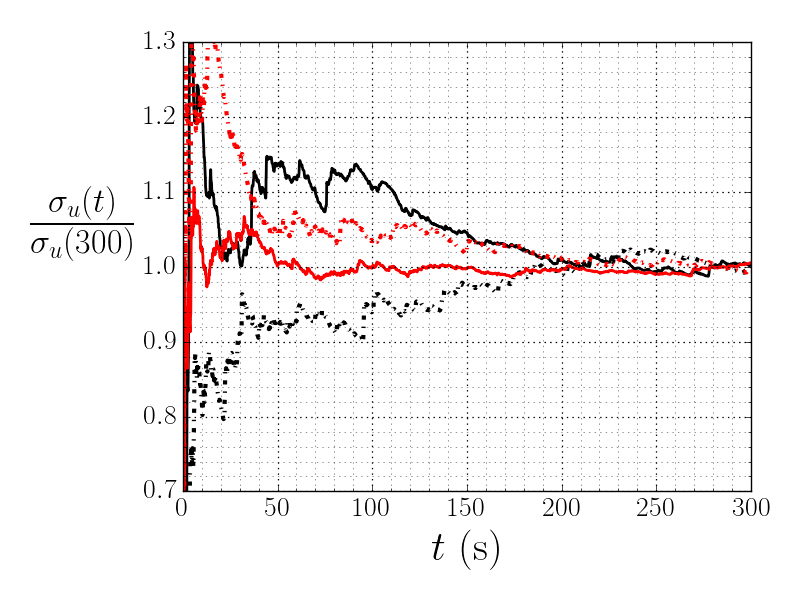
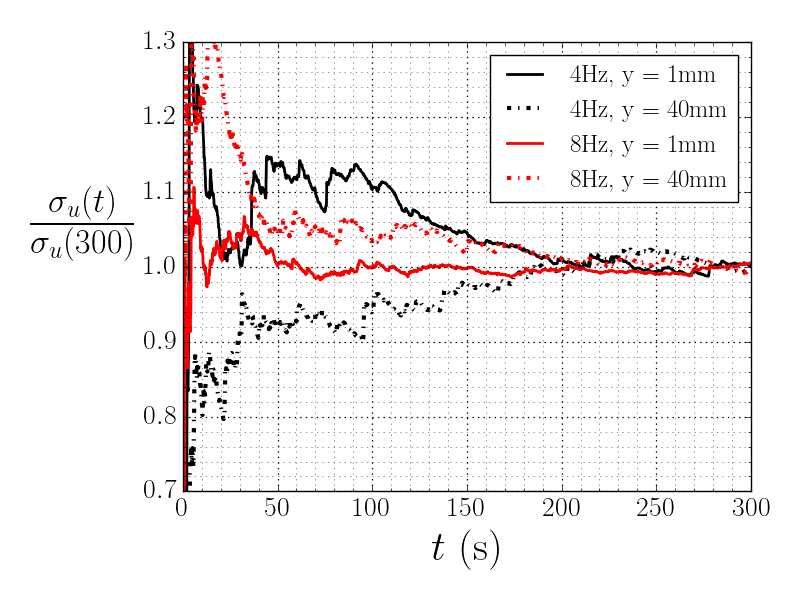
Altered plotting scripts

Changed region(s): [[0.5938, 0.09, 0.9375, 0.36]]

diff --git a/profiles/Code/processingScript.py b/profiles/Code/processingScript.py
@@ -118,67 +118,115 @@ if writeData == True:
 #	print(data)
 		data.to_pickle(writePath[j])
 
-data = (pd.read_pickle(dataPath[0]),pd.read_pickle(dataPath[2]))
+data = (pd.read_pickle(dataPath[0]),pd.read_pickle(dataPath[1]),pd.read_pickle(dataPath[2]),pd.read_pickle(dataPath[3]))
+data1=data[0];	data2=data[1];	data3=data[2];	data4=data[3];
 pumpSpeed = ['4hz','8hz']
 
 if plotDimensionedData == True:
-	for d in range(len(data)):
-		print(pumpSpeed[d])
-		mpl.semilogx(data[d].z,data[d].UxMean,linestyle = 'None', marker = '.')
-		mpl.errorbar(data[d].z,data[d].UxMean,yerr=data[d].error_UxMean, linestyle = "None")
+	for i in range(len(pumpSpeed)):
+		if i == 0:
+			d1 = data1;	d2 = data2;
+		elif i == 1:
+			d1 = data3; d2 = data4;
+#
+##	Plot mean U
 		mpl.rc('text', usetex=True)
 		mpl.rc('font', family='serif')
-		mpl.xticks(fontsize=25)
-		mpl.yticks(fontsize=25)
-		mpl.xlabel(r'$\mathbf{z}$',fontsize=30)
-		mpl.ylabel(r'$\mathbf{U}$',fontsize=30)
-		write = '../Data/processedData/figures/meanU_'+str(pumpSpeed[d])+'.png'
-		mpl.savefig(write)
-	#	mpl.show()
-		mpl.close()
-		#mpl.semilogx(data.z,data.UyMean,linestyle = 'None', marker = '.')
-		#mpl.errorbar(data.z,data.UyMean,yerr=data.error_UyMean, linestyle = "None")
-		#mpl.show()
-		#mpl.close()
-		mpl.plot(data[d].z,data[d].uxRMS,linestyle = 'None', marker = '.')
-		mpl.errorbar(data[d].z,data[d].uxRMS,yerr=data[d].error_uxRMS, linestyle = "None")
-		mpl.rc('text', usetex=True)
-		mpl.rc('font', family='serif')
-		mpl.xticks(fontsize=25)
-		mpl.yticks(fontsize=25)
-		mpl.xlabel(r'$\mathbf{z}$',fontsize=30)
-		mpl.ylabel(r'$\mathbf{RMS(U)}$',fontsize=30)
-		write = '../Data/processedData/figures/rmsU_'+str(pumpSpeed[d])+'.png'
-		mpl.savefig(write)
-	#	mpl.show()
-		mpl.close()
-		mpl.plot(data[d].z,data[d].uyRMS,linestyle = 'None', marker = '.')
-		mpl.errorbar(data[d].z,data[d].uyRMS,yerr=data[d].error_uyRMS, linestyle = "None")
-		mpl.rc('text', usetex=True)
-		mpl.rc('font', family='serif')
-		mpl.xticks(fontsize=25)
-		mpl.yticks(fontsize=25)
-		mpl.xlabel(r'$\mathbf{z}$',fontsize=30)
-		mpl.ylabel(r'$\mathbf{RMS(W)}$',fontsize=30)
-		write = '../Data/processedData/figures/rmsW_'+str(pumpSpeed[d])+'.png'
-		mpl.savefig(write)
-	#	mpl.show()
-		mpl.close()
-		mpl.plot(data[d].z,data[d].uv,linestyle = 'None', marker = '.')
-		mpl.errorbar(data[d].z,data[d].uv,yerr=data[d].error_uv, linestyle = "None")
-		mpl.rc('text', usetex=True)
-		mpl.rc('font', family='serif')
-		mpl.xticks(fontsize=25)
-		mpl.yticks(fontsize=25)
-		mpl.xlabel(r'$\mathbf{z}$',fontsize=30)
-		mpl.ylabel(r'$\mathbf{uv}$',fontsize=30)
-		write = '../Data/processedData/figures/uv_'+str(pumpSpeed[d])+'.png'
-		mpl.savefig(write)
-	#	mpl.show()
-		mpl.close()
+		plot1, = mpl.semilogx(d1.z,d1.UxMean,linestyle = 'None',color = 'k', marker = '.',label = r'$x=300$ (mm)')
+		mpl.errorbar(d1.z,d1.UxMean,yerr=d1.error_UxMean, linestyle = "None",color = 'k')
 	#
+		plot2, = mpl.semilogx(d2.z,d2.UxMean,linestyle = 'None',color = 'r', marker = 'x',label = r'$x=400$ (mm)')
+		mpl.errorbar(d2.z,d2.UxMean,yerr=d2.error_UxMean, linestyle = "None",color = 'k')
+		mpl.xticks(fontsize=25)
+		mpl.yticks(fontsize=25)
+		mpl.xlabel(r'$z$ (mm)',fontsize=30)
+		mpl.ylabel(r'$\mu_u$ (m/s)',fontsize=30)
+		mpl.legend(handles=[plot1,plot2],loc=2)
+		write = '../Data/processedData/figures/meanU_'+str(pumpSpeed[i])+'.png'
+		mpl.savefig(write)
+#		mpl.show()
+		mpl.close()
+##	Plot std U
+		mpl.rc('text', usetex=True)
+		mpl.rc('font', family='serif')
+		plot1, = mpl.semilogx(d1.z,d1.uxRMS,linestyle = 'None',color = 'r', marker = '.',label = r'$\sigma_u$ at $x=300$ (mm)')
+		mpl.errorbar(d1.z,d1.uxRMS,yerr=d1.error_uxRMS, linestyle = "None",color = 'k')
+		plot2, = mpl.semilogx(d1.z,d1.uyRMS,linestyle = 'None',color = 'g', marker = '.',label = r'$\sigma_v$ at $x=300$ (mm)')
+		mpl.errorbar(d1.z,d1.uyRMS,yerr=d1.error_uyRMS, linestyle = "None",color = 'k')
 	#
-###############	TEMP LOCATION OF LAW OF THE WALL FUNCTION - MOVE THIS LATER ################
+		plot3, = mpl.semilogx(d2.z,d2.uxRMS,linestyle = 'None',color = 'b', marker = 'x',label = r'$\sigma_v$ at $x=400$ (mm)')
+		mpl.errorbar(d2.z,d2.uxRMS,yerr=d2.error_uxRMS, linestyle = "None",color = 'k')
+		plot4, = mpl.semilogx(d2.z,d2.uyRMS,linestyle = 'None',color = 'k', marker = 'x',label = r'$\sigma_u$ at $x=400$ (mm)')
+		mpl.errorbar(d2.z,d2.uyRMS,yerr=d2.error_uyRMS, linestyle = "None",color = 'k')
+#
+		mpl.xticks(fontsize=25)
+		mpl.yticks(fontsize=25)
+		mpl.xlabel(r'$z$ (mm)',fontsize=30)
+		mpl.ylabel(r'$\sigma_u,\sigma_v$ (m/s)',fontsize=30)
+		mpl.legend(handles=[plot1,plot2,plot3,plot4],loc=1)
+		write = '../Data/processedData/figures/std_'+str(pumpSpeed[i])+'.png'
+		mpl.savefig(write)
+#		mpl.show()
+		mpl.close()
+##	Plot cov
+		mpl.rc('text', usetex=True)
+		mpl.rc('font', family='serif')
+		plot1, = mpl.semilogx(d1.z,d1.uv,linestyle = 'None',color = 'k', marker = '.',label = r'$x=300$ (mm)')
+		mpl.errorbar(d1.z,d1.uv,yerr=d1.error_uv, linestyle = "None",color = 'k')
+	#
+		plot2, = mpl.semilogx(d2.z,d2.uv,linestyle = 'None',color = 'r', marker = 'x',label = r'$x=400$ (mm)')
+		mpl.errorbar(d2.z,d2.uv,yerr=d2.error_uv, linestyle = "None",color = 'k')
+		mpl.xticks(fontsize=25)
+		mpl.yticks(fontsize=25)
+		mpl.xlabel(r'$z$ (mm)',fontsize=30)
+		mpl.ylabel(r'$\gamma_{u,v}$ (m\textsuperscript{2}/s\textsuperscript{2})',fontsize=30)
+		mpl.legend(handles=[plot1,plot2],loc=2)
+		write = '../Data/processedData/figures/cov_'+str(pumpSpeed[i])+'.png'
+		mpl.savefig(write)
+#		mpl.show()
+		mpl.close()
+
+
+
+#		mpl.plot(data[d].z,data[d].uxRMS,linestyle = 'None', marker = '.')
+#		mpl.errorbar(data[d].z,data[d].uxRMS,yerr=data[d].error_uxRMS, linestyle = "None")
+#		mpl.rc('text', usetex=True)
+#		mpl.rc('font', family='serif')
+#		mpl.xticks(fontsize=25)
+#		mpl.yticks(fontsize=25)
+#		mpl.xlabel(r'$\mathbf{z}$',fontsize=30)
+#		mpl.ylabel(r'$\mathbf{RMS(U)}$',fontsize=30)
+##		write = '../Data/processedData/figures/rmsU_'+str(pumpSpeed[d])+'.png'
+#		mpl.savefig(write)
+#	#	mpl.show()
+#		mpl.close()
+#		mpl.plot(data[d].z,data[d].uyRMS,linestyle = 'None', marker = '.')
+#		mpl.errorbar(data[d].z,data[d].uyRMS,yerr=data[d].error_uyRMS, linestyle = "None")
+#		mpl.rc('text', usetex=True)
+#		mpl.rc('font', family='serif')
+#		mpl.xticks(fontsize=25)
+#		mpl.yticks(fontsize=25)
+#		mpl.xlabel(r'$\mathbf{z}$',fontsize=30)
+#		mpl.ylabel(r'$\mathbf{RMS(W)}$',fontsize=30)
+#		write = '../Data/processedData/figures/rmsW_'+str(pumpSpeed[d])+'.png'
+#		mpl.savefig(write)
+#	#	mpl.show()
+#		mpl.close()
+#		mpl.plot(data[d].z,data[d].uv,linestyle = 'None', marker = '.')
+#		mpl.errorbar(data[d].z,data[d].uv,yerr=data[d].error_uv, linestyle = "None")
+#		mpl.rc('text', usetex=True)
+#		mpl.rc('font', family='serif')
+#		mpl.xticks(fontsize=25)
+#		mpl.yticks(fontsize=25)
+#		mpl.xlabel(r'$\mathbf{z}$',fontsize=30)
+#		mpl.ylabel(r'$\mathbf{uv}$',fontsize=30)
+#		write = '../Data/processedData/figures/uv_'+str(pumpSpeed[d])+'.png'
+#		mpl.savefig(write)
+#	#	mpl.show()
+#		mpl.close()
+#	#
+#	#
+################	TEMP LOCATION OF LAW OF THE WALL FUNCTION - MOVE THIS LATER ################
 ####
 ####	1. 	define new variables
 ##	Initialise variables using the full data set and iterate to find log-law region by removing extremes of z
@@ -192,66 +240,67 @@ def linearReg(X,Y):
 	beta = np.sum( (X-np.mean(X)) * (Y-np.mean(Y)) ) / np.sum( (Y - np.mean(Y))**2 ) 
 	alpha = np.mean(X) - beta*np.mean(Y)
 	return [alpha,beta]
+testing = False
+if testing == True:
+	data4 = pd.read_pickle(dataPath[0])
+	data8 = pd.read_pickle(dataPath[2])
 
-data4 = pd.read_pickle(dataPath[0])
-data8 = pd.read_pickle(dataPath[2])
-
-Ulab4 = data4.UxMean.as_matrix()
-Ylab4 = data4.z.as_matrix()/1000
-Ulab8 = data8.UxMean.as_matrix()
-Ylab8 = data8.z.as_matrix()/1000
-
-nu = 1.1*10**(-6)
-kappa = 0.41
-Cplus = 5.2
-[Utau4,Delta4] = FDP(Ulab4,Ylab4)
-[Utau8,Delta8] = FDP(Ulab8,Ylab8)
-
-Yplus4 = (Ylab4-Delta4)*Utau4/nu
-Uplus4 = Ulab4/Utau4
-Yplus8 = (Ylab8-Delta8)*Utau8/nu
-Uplus8 = Ulab8/Utau8
-
-mpl.semilogx(Yplus4,Uplus4,linestyle=' ',marker = 'o')
-mpl.errorbar(Yplus4,Uplus4,yerr=data4.error_UxMean/Utau4, linestyle = "None",ecolor='k', capthick=2)
-#
-mpl.plot(Yplus4,Yplus4)
-mpl.plot(Yplus4,np.log(Yplus4)/kappa+Cplus)
-mpl.axis([0,np.max(Yplus4),0,np.max(Uplus4)+0.05*np.max(Uplus4)])
-mpl.rc('text', usetex=True)
-mpl.rc('font', family='serif')
-mpl.xticks(fontsize=25)
-mpl.yticks(fontsize=25)
-mpl.xlabel(r'$\mathbf{z^+}$',fontsize=30)
-mpl.ylabel(r'$\mathbf{U^+}$',fontsize=30)
-mpl.savefig('../Data/processedData/figures/Uplus_4hz.png')
-#mpl.show()
-mpl.close()
-
-mpl.semilogx(Yplus8,Uplus8,linestyle=' ',marker = '*')
-mpl.errorbar(Yplus8,Uplus8,yerr=data8.error_UxMean/Utau8, linestyle = "None",ecolor='k', capthick=2)
-#
-mpl.plot(Yplus8,Yplus8)
-mpl.plot(Yplus8,np.log(Yplus8)/kappa+Cplus)
-mpl.axis([0,np.max(Yplus8),0,np.max(Uplus8)+0.05*np.max(Uplus8)])
-mpl.rc('text', usetex=True)
-mpl.rc('font', family='serif')
-mpl.xticks(fontsize=25)
-mpl.yticks(fontsize=25)
-mpl.xlabel(r'$\mathbf{z^+}$',fontsize=30)
-mpl.ylabel(r'$\mathbf{U^+}$',fontsize=30)
-mpl.savefig('../Data/processedData/figures/Uplus_8hz.png')
-#mpl.show()
-mpl.close()
-
-
+	Ulab4 = data4.UxMean.as_matrix()
+	Ylab4 = data4.z.as_matrix()/1000
+	Ulab8 = data8.UxMean.as_matrix()
+	Ylab8 = data8.z.as_matrix()/1000
+	
+	nu = 1.1*10**(-6)
+	kappa = 0.41
+	Cplus = 5.2
+	[Utau4,Delta4] = FDP(Ulab4,Ylab4)
+	[Utau8,Delta8] = FDP(Ulab8,Ylab8)
+	
+	Yplus4 = (Ylab4-Delta4)*Utau4/nu
+	Uplus4 = Ulab4/Utau4
+	Yplus8 = (Ylab8-Delta8)*Utau8/nu
+	Uplus8 = Ulab8/Utau8
+	
+	mpl.semilogx(Yplus4,Uplus4,linestyle=' ',marker = 'o')
+	mpl.errorbar(Yplus4,Uplus4,yerr=data4.error_UxMean/Utau4, linestyle = "None",ecolor='k', capthick=2)
+	#
+	mpl.plot(Yplus4,Yplus4)
+	mpl.plot(Yplus4,np.log(Yplus4)/kappa+Cplus)
+	mpl.axis([0,np.max(Yplus4),0,np.max(Uplus4)+0.05*np.max(Uplus4)])
+	mpl.rc('text', usetex=True)
+	mpl.rc('font', family='serif')
+	mpl.xticks(fontsize=25)
+	mpl.yticks(fontsize=25)
+	mpl.xlabel(r'$\mathbf{z^+}$',fontsize=30)
+	mpl.ylabel(r'$\mathbf{U^+}$',fontsize=30)
+	mpl.savefig('../Data/processedData/figures/Uplus_4hz.png')
+	#mpl.show()
+	mpl.close()
+	
+	mpl.semilogx(Yplus8,Uplus8,linestyle=' ',marker = '*')
+	mpl.errorbar(Yplus8,Uplus8,yerr=data8.error_UxMean/Utau8, linestyle = "None",ecolor='k', capthick=2)
+	#
+	mpl.plot(Yplus8,Yplus8)
+	mpl.plot(Yplus8,np.log(Yplus8)/kappa+Cplus)
+	mpl.axis([0,np.max(Yplus8),0,np.max(Uplus8)+0.05*np.max(Uplus8)])
+	mpl.rc('text', usetex=True)
+	mpl.rc('font', family='serif')
+	mpl.xticks(fontsize=25)
+	mpl.yticks(fontsize=25)
+	mpl.xlabel(r'$\mathbf{z^+}$',fontsize=30)
+	mpl.ylabel(r'$\mathbf{U^+}$',fontsize=30)
+	#mpl.savefig('../Data/processedData/figures/Uplus_8hz.png')
+	#mpl.show()
+	mpl.close()
+	
+	
 #	Test y values for a given y^+
-print('4hz: For yplus = 5: y = ',5*nu/Utau4)
-print('4hz: For yplus = 10: y = ',10*nu/Utau4)
-print('4hz: For yplus = 20: y = ',20*nu/Utau4)
-print('8hz: For yplus = 5: y = ',5*nu/Utau8)
-print('8hz: For yplus = 10: y = ',10*nu/Utau8)
-print('8hz: For yplus = 20: y = ',20*nu/Utau8)
+#print('4hz: For yplus = 5: y = ',5*nu/Utau4)
+#print('4hz: For yplus = 10: y = ',10*nu/Utau4)
+#print('4hz: For yplus = 20: y = ',20*nu/Utau4)
+#print('8hz: For yplus = 5: y = ',5*nu/Utau8)
+#print('8hz: For yplus = 10: y = ',10*nu/Utau8)
+#print('8hz: For yplus = 20: y = ',20*nu/Utau8)
 
 
 

diff --git a/timeDependence/Code/processingScript.py b/timeDependence/Code/processingScript.py
@@ -265,8 +265,8 @@ if plotSimpleTimeDep == True:
 #	u5 = data_8_15.UxMean/np.mean(data_8_15.UxMean.loc[data_8_15.timeStamp[:]>270]),
 	u6 = data_8_40.UxMean/np.mean(data_8_40.UxMean.loc[data_8_40.timeStamp[:]>270]),
 	u2 = [],u5 = [],
-	u1Lab = '4 Hz, y = 1 mm',	u2Lab = '4 Hz, y = 15 mm',	u3Lab = '4 Hz, y = 40 mm',
-	u4Lab = '8 Hz, y = 1 mm',	u5Lab = '8 Hz, y = 15 mm',	u6Lab = '8 Hz, y = 40 mm',
+	u1Lab = '4 Hz, z = 1 mm',	u2Lab = '4 Hz, z = 15 mm',	u3Lab = '4 Hz, z = 40 mm',
+	u4Lab = '8 Hz, z = 1 mm',	u5Lab = '8 Hz, z = 15 mm',	u6Lab = '8 Hz, z = 40 mm',
 	ylabel = r'$\frac{\mu_u(t)}{\mu_{u}(300)}$',	xlabel = r'$t$ (s)',	legend = True,
 	writeString = "../Data/processedData/figures/UxMeanTConvergence.png")
 #
@@ -280,8 +280,8 @@ if plotSimpleTimeDep == True:
 #	u5 = data_8_15.UxMean/np.mean(data_8_15.UxMean.loc[data_8_15.timeStamp[:]>270]),
 	u6 = data_8_40.UxMean/np.mean(data_8_40.UxMean.loc[data_8_40.timeStamp[:]>270]),
 	u2 = [],u5 = [],
-	u1Lab = '4 Hz, y = 1 mm',	u2Lab = '4 Hz, y = 15mm',	u3Lab = '4Hz, y = 40mm',
-	u4Lab = '8 Hz, y = 1 mm',	u5Lab = '8 Hz, y = 15mm',	u6Lab = '8Hz, y = 40mm',
+	u1Lab = '4 Hz, z = 1 mm',	u2Lab = '4 Hz, z = 15mm',	u3Lab = '4Hz, z = 40mm',
+	u4Lab = '8 Hz, z = 1 mm',	u5Lab = '8 Hz, z = 15mm',	u6Lab = '8Hz, z = 40mm',
 	ylabel = r'$\frac{\mu_u(t)}{\mu_{u}(300)}$',	xlabel = r'$N$',	legend = False,
 	writeString = "../Data/processedData/figures/UxMeanNConvergence.png")
 #
@@ -297,8 +297,8 @@ if plotSimpleTimeDep == True:
 #	u5 = data_8_15.UyMean/np.mean(data_8_15.UyMean.loc[data_8_15.timeStamp[:]>270]),
 	u6 = data_8_40.UyMean/np.mean(data_8_40.UyMean.loc[data_8_40.timeStamp[:]>270]),
 	u2 = [],u5 = [],
-	u1Lab = '4Hz, y = 1mm',	u2Lab = '4Hz, y = 15mm',	u3Lab = '4Hz, y = 40mm',
-	u4Lab = '8Hz, y = 1mm',	u5Lab = '8Hz, y = 15mm',	u6Lab = '8Hz, y = 40mm',
+	u1Lab = '4Hz, z = 1mm',	u2Lab = '4Hz, z = 15mm',	u3Lab = '4Hz, y = 40mm',
+	u4Lab = '8Hz, z = 1mm',	u5Lab = '8Hz, z = 15mm',	u6Lab = '8Hz, y = 40mm',
 	ylabel = r'$\frac{\mu_v(t)}{\mu_{v}(300)}$',	xlabel = r'$t$ (s)',	legend = False,
 	writeString = "../Data/processedData/figures/UyMeanTConvergence.png")
 #
@@ -314,7 +314,7 @@ if plotSimpleTimeDep == True:
 	u2 = [],u5 = [],
 	u1Lab = '4Hz, y = 1mm',	u2Lab = '4Hz, y = 15mm',	u3Lab = '4Hz, y = 40mm',
 	u4Lab = '8Hz, y = 1mm',	u5Lab = '8Hz, y = 15mm',	u6Lab = '8Hz, y = 40mm',
-	ylabel = r'$\frac{\mu_v(t)}{\mu_{v}(300)}$',	xlabel = r'$N$',	legend = False,
+	ylabel = r'$\frac{\mu_v(t)}{\mu_{v}(300)}$',	xlabel = r'$N$',	legend = True,
 	writeString = "../Data/processedData/figures/UyMeanNConvergence.png")
 #
 #
@@ -331,7 +331,7 @@ if plotSimpleTimeDep == True:
 	u2 = [],u5 = [],
 	u1Lab = '4Hz, y = 1mm',	u2Lab = '4Hz, y = 15mm',	u3Lab = '4Hz, y = 40mm',
 	u4Lab = '8Hz, y = 1mm',	u5Lab = '8Hz, y = 15mm',	u6Lab = '8Hz, y = 40mm',
-	ylabel = r'$\frac{\sigma_u(t)}{\sigma_{u}(300)}$',	xlabel = r'$t$ (s)',	legend = False,
+	ylabel = r'$\frac{\sigma_u(t)}{\sigma_{u}(300)}$',	xlabel = r'$t$ (s)',	legend = True,
 	writeString = "../Data/processedData/figures/uxRMSTConvergence.png")
 #
 	simplePlotter(
@@ -363,7 +363,7 @@ if plotSimpleTimeDep == True:
 	u2 = [],u5 = [],
 	u1Lab = '4Hz, y = 1mm',	u2Lab = '4Hz, y = 15mm',	u3Lab = '4Hz, y = 40mm',
 	u4Lab = '8Hz, y = 1mm',	u5Lab = '8Hz, y = 15mm',	u6Lab = '8Hz, y = 40mm',
-	ylabel = r'$\frac{\sigma_v(t)}{\sigma_{v}(300)}$',	xlabel = r'$t$ (s)',	legend = False,
+	ylabel = r'$\frac{\sigma_v(t)}{\sigma_{v}(300)}$',	xlabel = r'$t$ (s)',	legend = True,
 	writeString = "../Data/processedData/figures/uyRMSTConvergence.png")
 #
 	simplePlotter(
@@ -409,10 +409,32 @@ if plotSimpleTimeDep == True:
 	u2 = [],u5 = [],
 	u1Lab = '4Hz, y = 1mm',	u2Lab = '4Hz, y = 15mm',	u3Lab = '4Hz, y = 40mm',
 	u4Lab = '8Hz, y = 1mm',	u5Lab = '8Hz, y = 15mm',	u6Lab = '8Hz, y = 40mm',
-	ylabel = r'$\frac{\gamma_{u,v}(t)}{\gamma_{u,v}(300)}$',	xlabel = r'$N$',	legend = False,
+	ylabel = r'$\frac{\gamma_{u,v}(t)}{\gamma_{u,v}(300)}$',	xlabel = r'$N$',	legend = True,
 	writeString = "../Data/processedData/figures/uvNConvergence.png")
 #
 
+
+
+testing = False
+if testing == True:
+	fig = mpl.figure()
+	ax = fig.add_subplot(1, 1, 1)
+	# Move left y-axis and bottim x-axis to centre, passing through (0,0)
+	ax.spines['left'].set_position('center')
+	ax.spines['bottom'].set_position('center')
+	# Eliminate upper and right axes
+	ax.spines['right'].set_color('none')
+	ax.spines['top'].set_color('none')
+	#mpl.gca().set_aspect('equal', adjustable='box')
+	# Show ticks in the left and lower axes only
+	ax.xaxis.set_ticks_position('bottom')
+	ax.yaxis.set_ticks_position('left')
+	u = (d.Ux-np.mean(d.Ux))
+	v = (d.Uy-np.mean(d.Uy))
+	mpl.scatter(d.Ux-np.mean(d.Ux),d.Uy-np.mean(d.Uy))
+	mpl.axis([-np.max(np.abs(u)),np.max(np.abs(u)),-np.max(np.abs(v)),np.max(np.abs(v))])
+	mpl.show()
+	
 
 
 #######################################################################################

diff --git a/timeDependence/Code/processingFunctions.py b/timeDependence/Code/processingFunctions.py
@@ -745,7 +745,7 @@ def simplePlotter(**kargs):
 	ax1.set_ylabel(ylabel,fontsize='35',rotation=0,labelpad=45)
 #	h.set_rotation(0)
 	if legend == True:
-		mpl.legend(handles=[plot1, plot3, plot4, plot6],loc=1,prop={'size':18},ncol=1)
+		mpl.legend(handles=[plot1, plot3, plot4, plot6],loc=4,prop={'size':18},ncol=1)
 #
 	mpl.axis([0, np.max(v6),0.7, 1.3])
 	mpl.minorticks_on()
